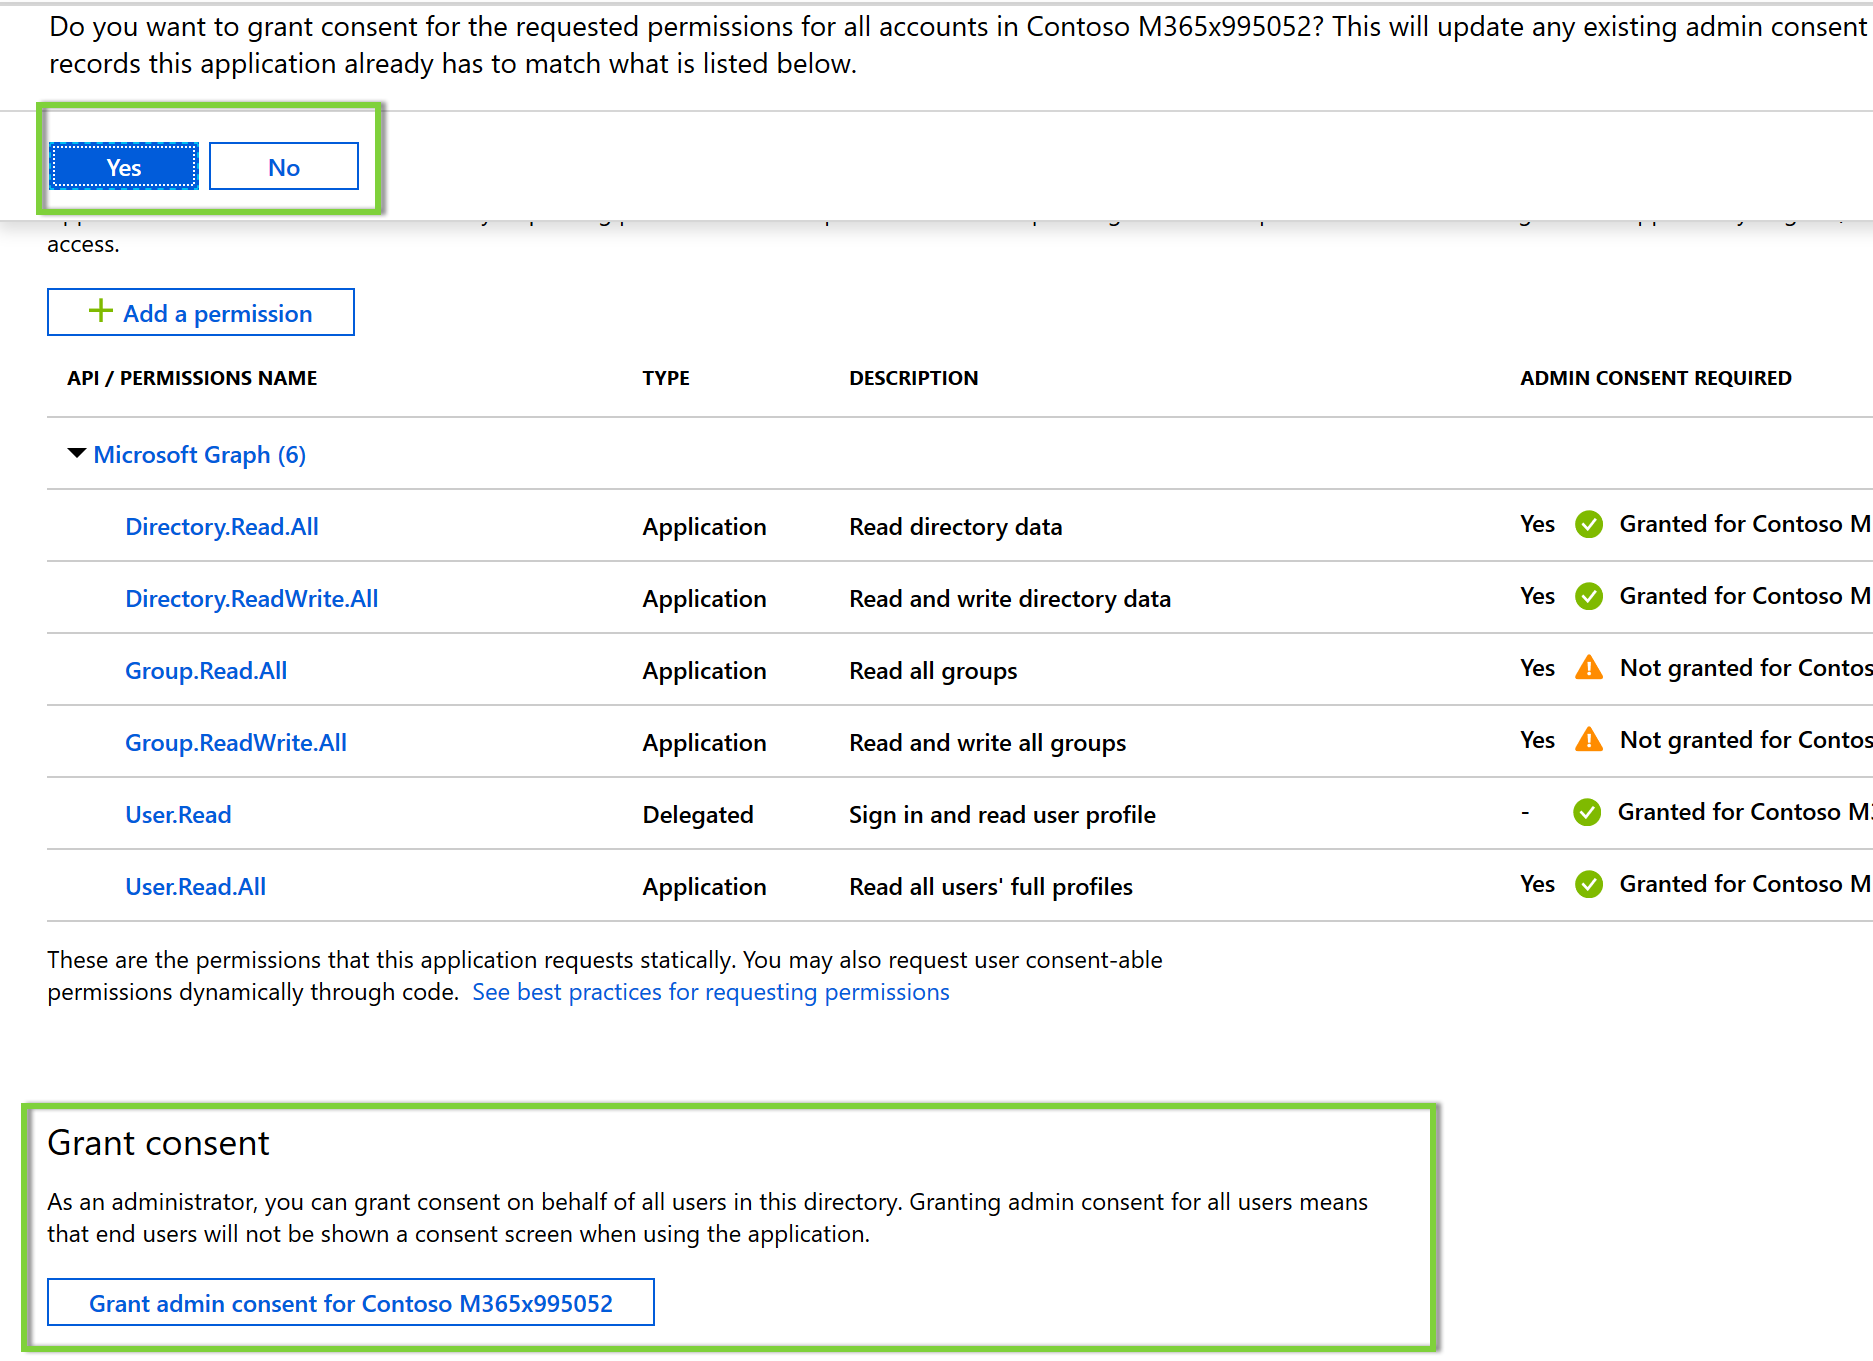
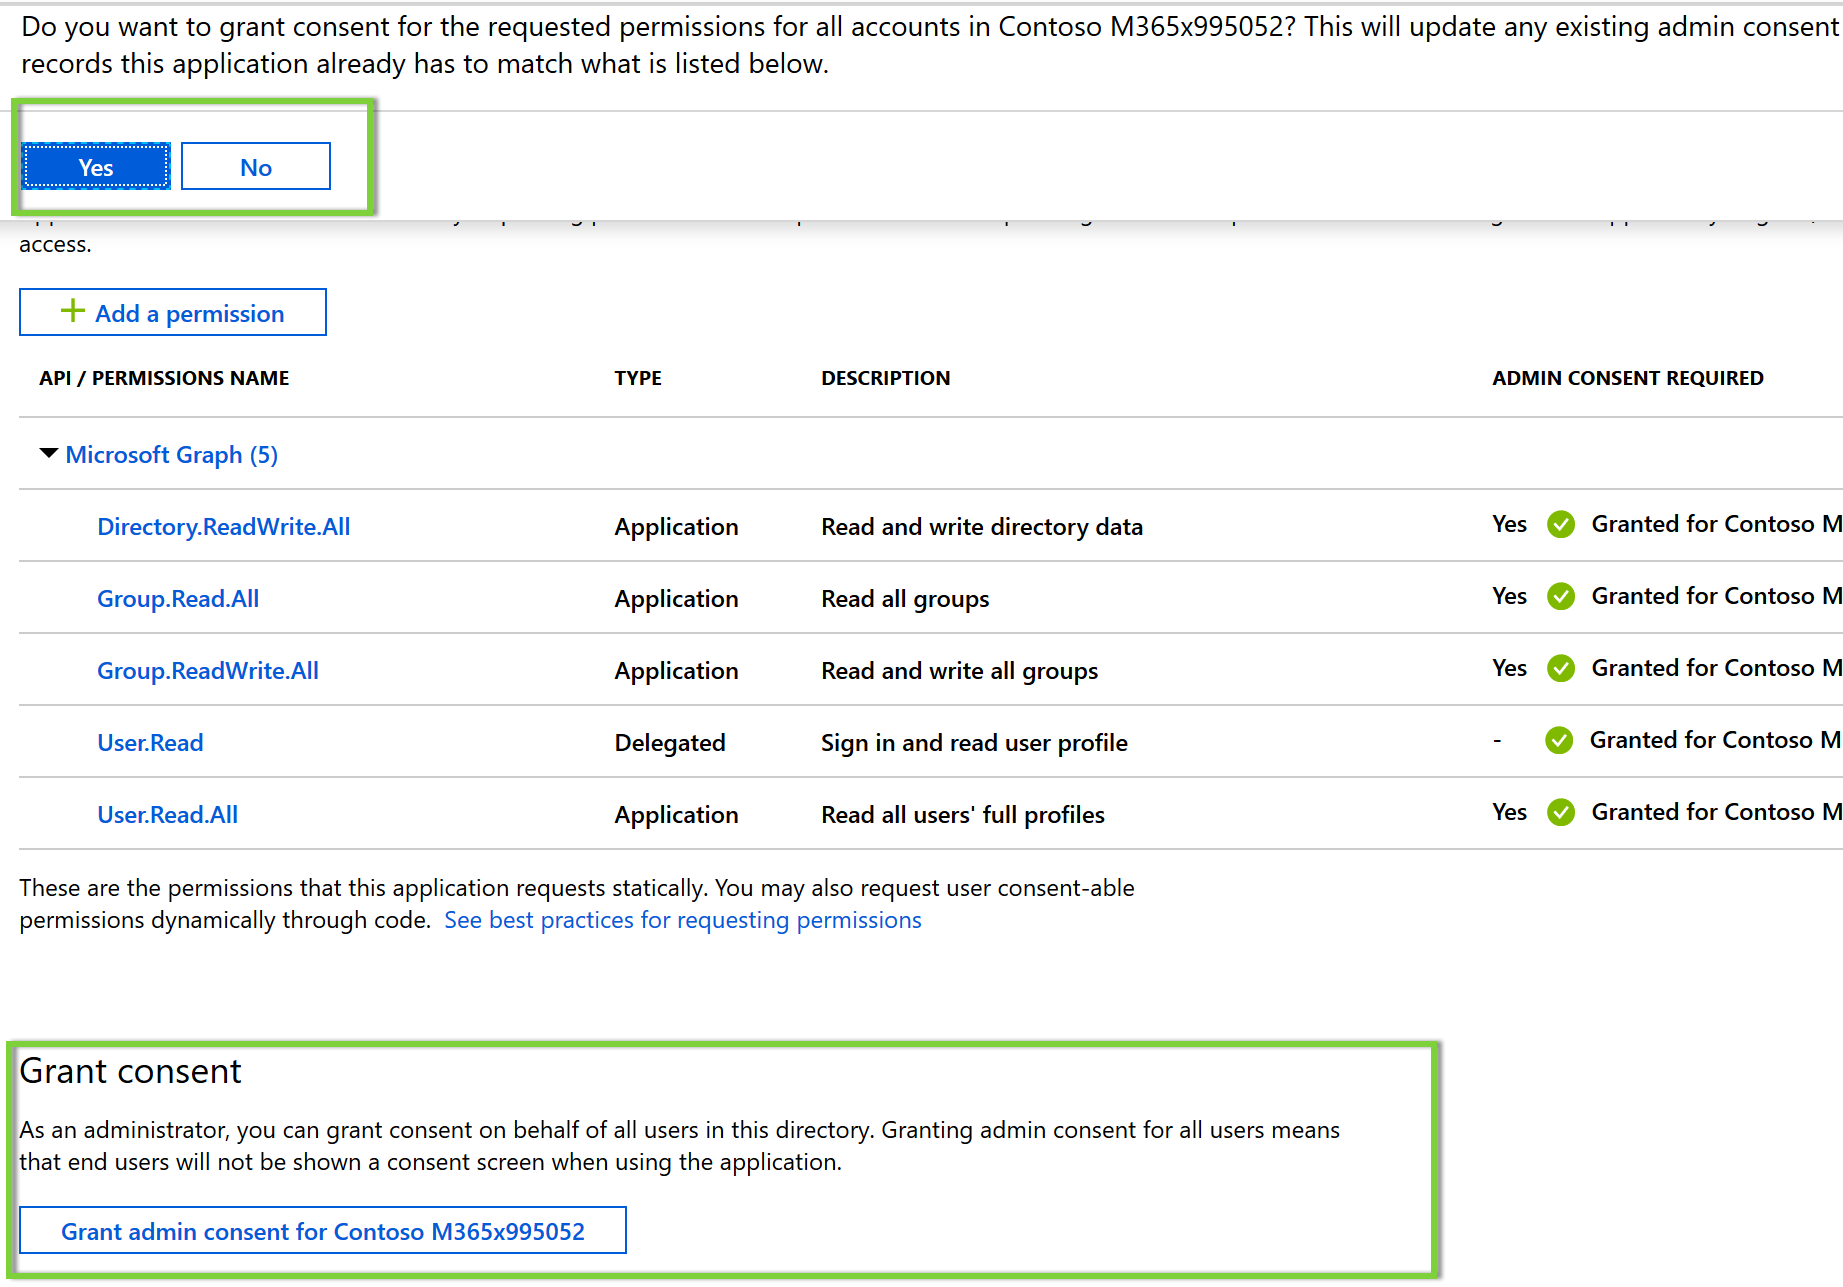
Added creategroup method, more fixes, updated readme
CreateGroup method added, along with the logic to create the group if none found.
Updated read me accordingly
Also, took care of minimal permissions to be requested

diff --git a/day19-assign-permissions/Helpers/PermissionHelper.cs b/day19-assign-permissions/Helpers/PermissionHelper.cs
@@ -21,7 +21,7 @@ namespace ConsoleGraphTest
             if (null == httpClient) throw new ArgumentNullException(nameof(httpClient));
             _httpClient = httpClient;
         }
-        
+
         //Returns a list of groups that the given user belongs to
         public async Task<List<ResultsItem>> UserMemberOf(string alias)
         {
@@ -61,12 +61,38 @@ namespace ConsoleGraphTest
         //Returns the first unified group with the given suffix
         public async Task<string> GetGroupByName(string groupNameSuffix)
         {
+            string groupId = string.Empty;
             var groups = await _graphClient.Groups.Request().Filter("groupTypes/any(c:c%20eq%20'unified') AND startswith(displayName,'" + groupNameSuffix + "')").Select("displayName,description,id").GetAsync();
             if (groups?.Count > 0)
             {
-                return (groups[0] as Group).Id as string;
+                groupId = (groups[0] as Group).Id;
             }
-            return null;
+            else
+            {
+                groupId = CreateGroup().Result;
+                
+            }
+            return groupId;
+        }
+
+        //Creates a Unified O365 Group
+        public async Task<string> CreateGroup()
+        {
+            string guid = Guid.NewGuid().ToString();
+            string groupPrefix = "Contoso -";
+            Group group = await _graphClient.Groups.Request().AddAsync(new Group
+            {
+                GroupTypes = new List<string> { "Unified" },
+                DisplayName = groupPrefix + guid.Substring(0, 8),
+                Description = groupPrefix + guid,
+                MailNickname = groupPrefix.Replace(" ", "").ToLower() + guid.Substring(0, 8),
+                MailEnabled = false,
+                SecurityEnabled = false
+            });
+            if (null == group)
+                throw new ApplicationException($"Unable to create a unified group"); 
+            
+            return group.Id;
         }
 
         //Returns the User object for the given alias

diff --git a/day19-assign-permissions/Program.cs b/day19-assign-permissions/Program.cs
@@ -30,11 +30,9 @@ namespace ConsoleGraphTest
             //Validate the user permissions to the group which also implies the associated SPO site
             PermissionHelperExampleScenario();
         }
-
         
         private static void PermissionHelperExampleScenario()
         {
-
             const string alias = "adelev";
             ListUnifiedGroupsForUser(alias);
             string groupId = GetUnifiedGroupStartswith("Contoso");
@@ -53,10 +51,10 @@ namespace ConsoleGraphTest
             }
         }
 
-        private static string GetUnifiedGroupStartswith(string groupSuffix)
+        private static string GetUnifiedGroupStartswith(string groupPrefix)
         {
             var permissionHelper = new PermissionHelper(_graphServiceClient);
-            var groupId = permissionHelper.GetGroupByName(groupSuffix).Result;
+            var groupId = permissionHelper.GetGroupByName(groupPrefix).Result;
             return groupId;
         }
         private static void AddUserToUnifiedGroup(string alias, string groupId)

diff --git a/day19-assign-permissions/README.md b/day19-assign-permissions/README.md
@@ -25,7 +25,7 @@ If you don't have a Microsoft account, there are a couple of options to get a fr
 
 ## Step 1: Update the App Registration permissions
 
-As this exercise requires new permissions the App Registration needs to be updated to include the **Directory.Read.All**, **Directory.ReadWrite.All**, **Group.Read.All** and **Group.ReadWrite.All** permission using the new Azure AD Portal App Registrations UI (in preview as of the time of publish Nov 2018).
+As this exercise requires new permissions the App Registration needs to be updated to include the **Directory.ReadWrite.All**, **Group.Read.All** and **Group.ReadWrite.All** permission using the new Azure AD Portal App Registrations UI (in preview as of the time of publish Nov 2018).
 
 1. Open a browser and navigate to the [Azure AD Portal](https://aad.portal.azure.com). Login using a **personal account** (aka: Microsoft Account) or **Work or School Account** with permissions to create app registrations.
 
@@ -163,15 +163,35 @@ In this step you will create a PermissionHelper class that encapsulates the logi
                     await _graphClient.Groups[groupId].Members.References.Request().AddAsync(user);
             }
 
-            //Returns the first unified group with the given suffix
-            public async Task<string> GetGroupByName(string groupNameSuffix)
+            //Returns the first unified group with the given prefix
+            public async Task<string> GetGroupByName(string groupNamePrefix)
             {
-                var groups = await _graphClient.Groups.Request().Filter("groupTypes/any(c:c%20eq%20'unified') AND startswith(displayName,'" + groupNameSuffix + "')").Select("displayName,description,id").GetAsync();
+                var groups = await _graphClient.Groups.Request().Filter("groupTypes/any(c:c%20eq%20'unified') AND startswith(displayName,'" + groupNamePrefix + "')").Select("displayName,description,id").GetAsync();
                 if (groups?.Count > 0)
                 {
                     return (groups[0] as Group).Id as string;
                 }
                 return null;
+            }
+
+            //Creates a Unified O365 Group
+            public async Task<string> CreateGroup()
+            {
+                string guid = Guid.NewGuid().ToString();
+                string groupPrefix = "Contoso -";
+                Group group = await _graphClient.Groups.Request().AddAsync(new Group
+                {
+                    GroupTypes = new List<string> { "Unified" },
+                    DisplayName = groupPrefix + guid.Substring(0, 8),
+                    Description = groupPrefix + guid,
+                    MailNickname = groupPrefix.Replace(" ", "").ToLower() + guid.Substring(0, 8),
+                    MailEnabled = false,
+                    SecurityEnabled = false
+                });
+                if (null == group)
+                    throw new ApplicationException($"Unable to create a unified group"); 
+                
+                return group.Id;
             }
 
             //Returns the User object for the given alias
@@ -189,11 +209,11 @@ In this step you will create a PermissionHelper class that encapsulates the logi
         }
     }
     ```
-This class contains the code to list all the groups a user belongs to, identify a unified group by suffix, add a user as a member to a unified group and thus provide permissions on the Office 365 and the corresponding SharePoint Online site.
+This class contains the code to list all the groups a user belongs to, identify a unified group by prefix, add a user as a member to a unified group and thus provide permissions on the Office 365 and the corresponding SharePoint Online site. You will also find a method that creates a unified group with "Contoso -" as prefix.
 
 ### Extend program to add and validate user permissions to unified group
 
-1. Inside the `Program` class add below methods. with the following definition. The method `ListUnifiedGroupsForUser` identifies all the groups that the given user is a member of. The method `GetUnifiedGroupStartswith` returns the unified office 365 group id for a given group name suffix. The method `AddUserToUnifiedGroup` attempts to add the given user to the provided group. All these methods in turn invoke the methods in PermissionHelper class which uses Microsoft Graph SDK to make all the API calls. 
+1. Inside the `Program` class add below methods. with the following definition. The method `ListUnifiedGroupsForUser` identifies all the groups that the given user is a member of. The method `GetUnifiedGroupStartswith` returns the unified office 365 group id for a given group name prefix. The method `AddUserToUnifiedGroup` attempts to add the given user to the provided group. All these methods in turn invoke the methods in PermissionHelper class which uses Microsoft Graph SDK to make all the API calls. 
 
     ```cs
     private static void PermissionHelperExampleScenario()
@@ -217,10 +237,10 @@ This class contains the code to list all the groups a user belongs to, identify 
         }
     }
 
-    private static string GetUnifiedGroupStartswith(string groupSuffix)
+    private static string GetUnifiedGroupStartswith(string groupPrefix)
     {
         var permissionHelper = new PermissionHelper(_graphServiceClient);
-        var groupId = permissionHelper.GetGroupByName(groupSuffix).Result;
+        var groupId = permissionHelper.GetGroupByName(groupPrefix).Result;
         return groupId;
     }
     private static void AddUserToUnifiedGroup(string alias, string groupId)
